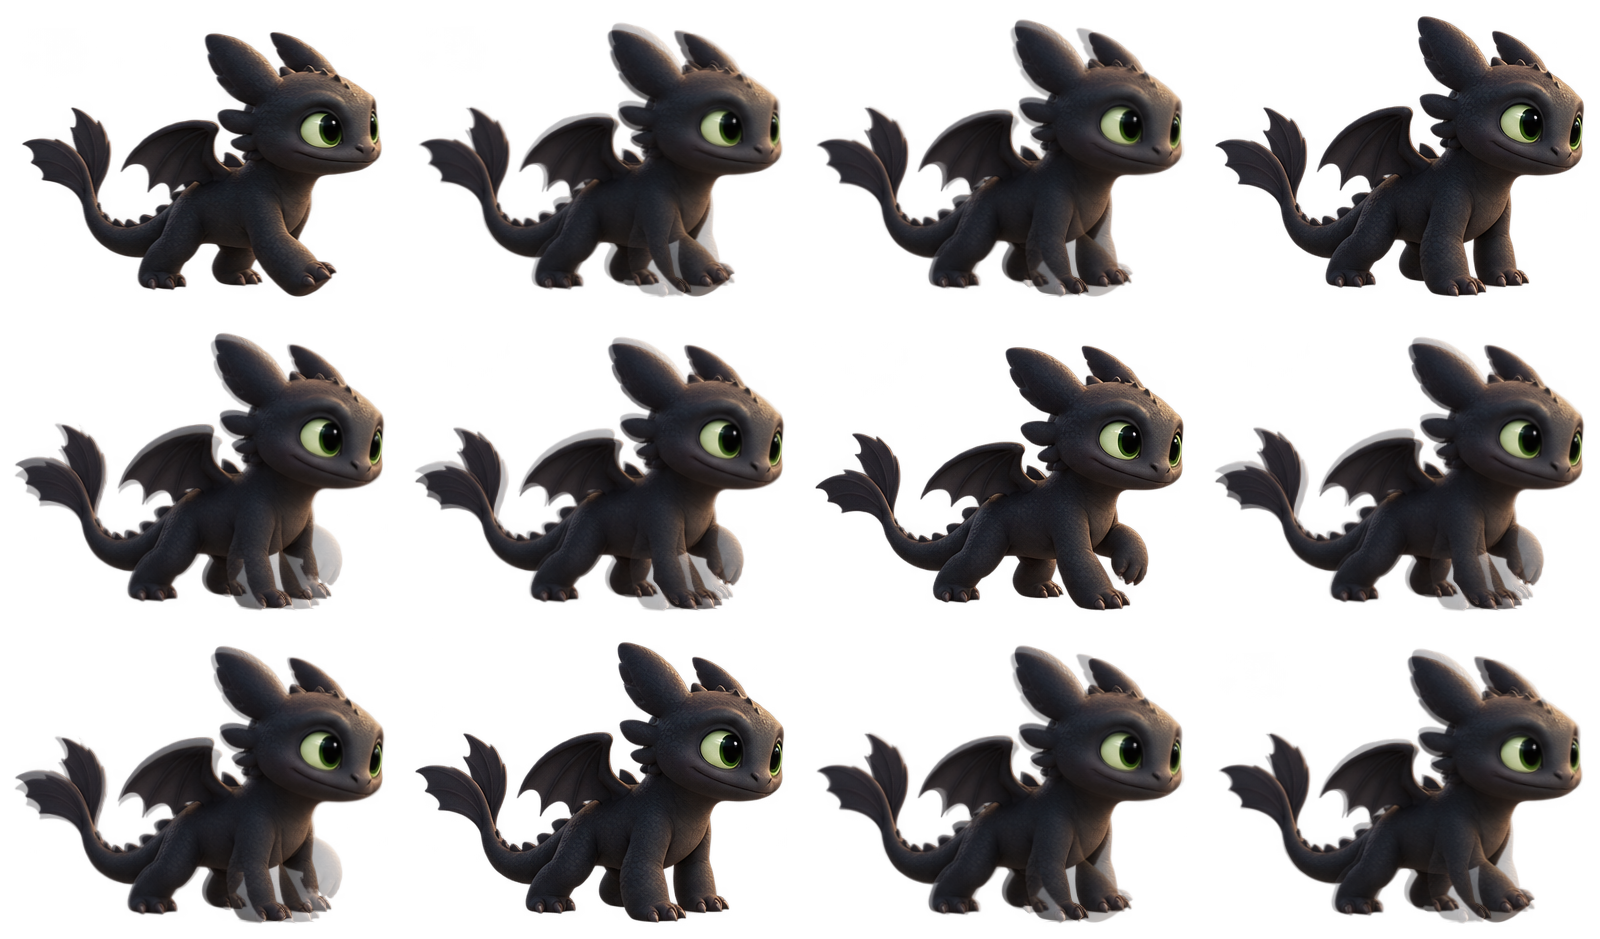
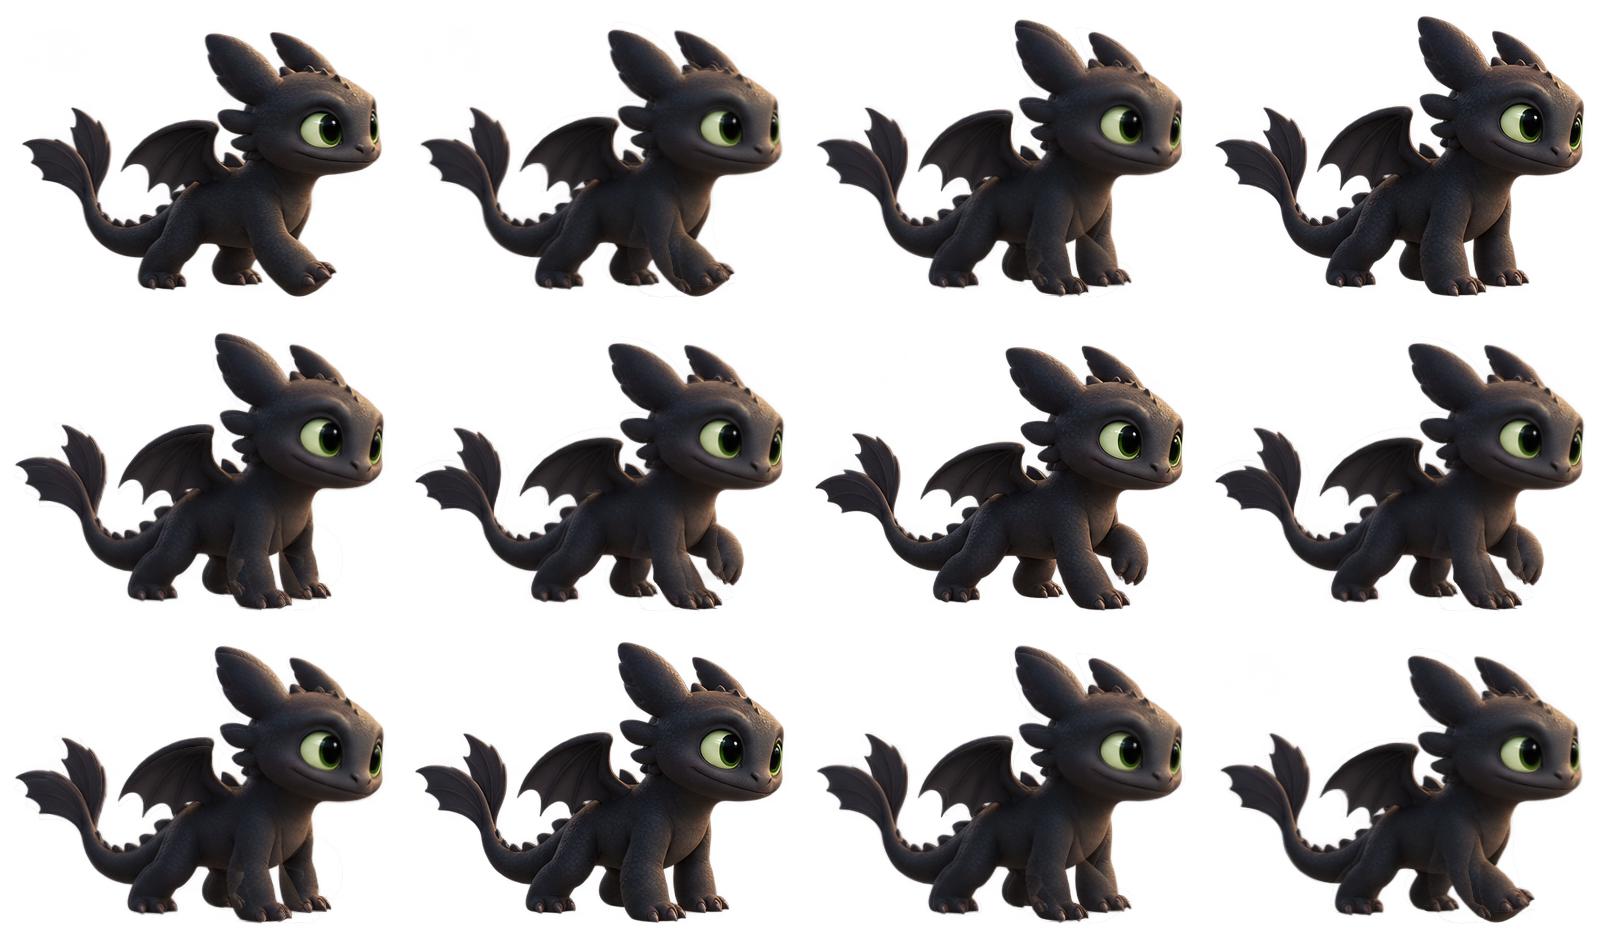
Clean up Toothless's in-betweens and keep timers prompt
- Toothless's computed walk drawings no longer carry a faint extra paw or
  ghosted tail: where neighbouring drawings disagree about fur, the nearer
  drawing wins instead of a translucent blend.
- Focus, reminders and deliveries are serviced on the wall clock five times a
  second, so they stay prompt even when the display's frames stop.
- Each character frame owns its pixels, so decoded sheets are released after
  loading (sitting memory back to about 135 MiB).
All found by Codex QA.

Claude-Session: https://claude.ai/code/session_019wkp4NfhsQhnUgY3gBoCEW

diff --git a/Sources/Taskmaster/PetAtlas.swift b/Sources/Taskmaster/PetAtlas.swift
@@ -130,8 +130,11 @@ final class PetAtlas {
                 let image = CGImageSourceCreateImageAtIndex(source, 0, nil)
             {
                 let bounds = Self.opaqueBounds(Self.rgba(image), width: image.width, height: image.height)
-                guard let trimmed = image.cropping(to: bounds) else { throw ArtError.invalidFrame }
-                let data = Self.rgba(trimmed)
+                guard let cropped = image.cropping(to: bounds) else { throw ArtError.invalidFrame }
+                let data = Self.rgba(cropped)
+                guard let trimmed = Self.image(data, width: cropped.width, height: cropped.height) else {
+                    throw ArtError.invalidFrame
+                }
                 let texture = SKTexture(cgImage: trimmed)
                 texture.filteringMode = .linear
                 guard let metadata = layout.highFive else { throw ArtError.invalidFrame }
@@ -258,8 +261,12 @@ final class PetAtlas {
         }
         let pixels = Self.rgba(cell)
         let bounds = Self.opaqueBounds(pixels, width: cell.width, height: cell.height)
-        guard let trimmed = cell.cropping(to: bounds) else { throw ArtError.invalidFrame }
-        let trimmedPixels = Self.rgba(trimmed)
+        guard let cropped = cell.cropping(to: bounds) else { throw ArtError.invalidFrame }
+        let trimmedPixels = Self.rgba(cropped)
+        // A crop shares the whole decoded sheet's memory; an owned copy lets the sheet go once loading ends.
+        guard let trimmed = Self.image(trimmedPixels, width: cropped.width, height: cropped.height) else {
+            throw ArtError.invalidFrame
+        }
         let alpha = stride(from: 3, to: trimmedPixels.count, by: 4).map { trimmedPixels[$0] }
         let texture = SKTexture(cgImage: trimmed)
         texture.filteringMode = .linear
@@ -311,6 +318,15 @@ final class PetAtlas {
             cycle[pose] = frame
         }
         return cycle
+    }
+
+    private static func image(_ pixels: [UInt8], width: Int, height: Int) -> CGImage? {
+        guard let provider = CGDataProvider(data: Data(pixels) as CFData) else { return nil }
+        return CGImage(
+            width: width, height: height, bitsPerComponent: 8, bitsPerPixel: 32, bytesPerRow: width * 4,
+            space: CGColorSpaceCreateDeviceRGB(),
+            bitmapInfo: CGBitmapInfo(rawValue: CGImageAlphaInfo.premultipliedLast.rawValue), provider: provider,
+            decode: nil, shouldInterpolate: true, intent: .defaultIntent)
     }
 
     private static func rgba(_ image: CGImage) -> [UInt8] {

diff --git a/Sources/Taskmaster/DesktopController.swift b/Sources/Taskmaster/DesktopController.swift
@@ -18,6 +18,7 @@ final class DesktopController: NSObject {
     private var screen: NSScreen
     private var timer: Timer?
     private var lastTick = CACurrentMediaTime()
+    private var lastServices: Double = 0
     private var presentationTick = 0
     private var suspended = false
     private var lastWarp: CGPoint?
@@ -196,7 +197,12 @@ final class DesktopController: NSObject {
         let dt = min(0.1, now - lastTick)
         lastTick = now
         guard !suspended else { return }
-        if presentationTick % 12 == 0 || framesPerSecond <= FramePacing.hidden { model.updateServices() }
+        // Focus, reminders and deliveries run on the wall clock, five times a second whatever drives the frames
+        // (60 fps, 4 fps hidden, or the watchdog when frames stop).
+        if now - lastServices >= 0.2 {
+            lastServices = now
+            model.updateServices()
+        }
         let pointer = NSEvent.mouseLocation
         let localPoint = CGPoint(x: pointer.x - screen.frame.minX, y: pointer.y - screen.frame.minY)
         if NSWorkspace.shared.accessibilityDisplayShouldReduceMotion { engine.cancelCursorHeist() }

diff --git a/scripts/make-inbetweens.swift b/scripts/make-inbetweens.swift
@@ -238,7 +238,11 @@ func between(_ a: Bitmap, _ b: Bitmap, _ ab: [SIMD2<Float>], _ ba: [SIMD2<Float>
             let toB = f01 * ((1 - t) * (1 - t)) - f10 * (t * (1 - t))
             let pa = a.sample(Float(x) + toA.x, Float(y) + toA.y)
             let pb = b.sample(Float(x) + toB.x, Float(y) + toB.y)
-            let mixed = pa * (1 - t) + pb * t
+            // Where one neighbour has fur and the other doesn't (a paw lifting away, say), blending would
+            // leave a translucent ghost; take the nearer drawing there instead.
+            let gap = min(1, max(0, (abs(pa.w - pb.w) - 0.12) / 0.3))
+            let occlusion = gap * gap * (3 - 2 * gap)
+            let mixed = (pa * (1 - t) + pb * t) * (1 - occlusion) + (t < 0.5 ? pa : pb) * occlusion
             for c in 0..<4 { out.data[i * 4 + c] = mixed[c] }
         }
     }
